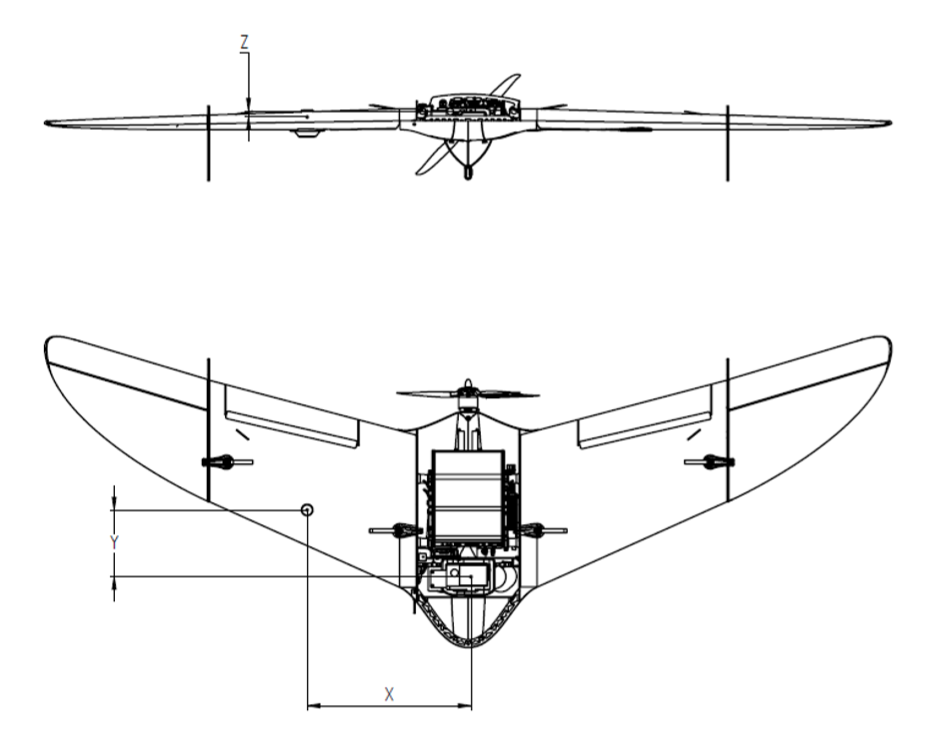
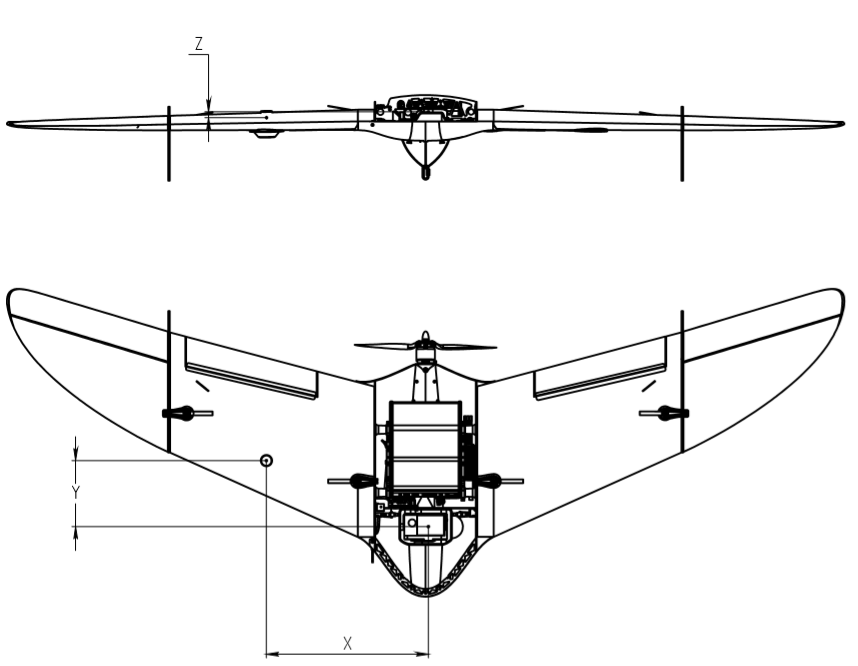
ofsets

Changed region(s): [[0.0, 0.4204, 1.0, 0.991], [0.0, 0.0601, 1.0, 0.2703]]

diff --git a/camera.rst b/camera.rst
@@ -159,11 +159,13 @@
 Офсеты камер
 -------------------
 
-Чтобы компенсировать разницу координат центров фотографирования и положения антенны ГНСС приемника, введите следующие значения офсетов в окне Agisoft Metashape перед началом обработки фотографий:
+Так как геодезический приемник расположен внутри консоли БВС, его центр находится в стороне от камеры.
+
+Параметры смещения следует учитывать при точном построении ортофотопланов и 3D-моделей.
 
 .. figure:: _static/_images/offsets.png
    :align: center
-   :width: 500
+   :width: 800
 
    Офсеты для Геоскан 201
 
@@ -210,3 +212,11 @@
 +----------+-------+-------+-------+
 | Red Edge | 0.494 | 0.177 | 0.006 |
 +----------+-------+-------+-------+
+
+
+Для настройки смещения в Agisoft Metashape во вкладке Инструменты выберите пункт Калибровка камеры. Установите во вкладке Поправка GPS/INS отклонения в метрах (см. рисунок).
+
+.. figure:: _static/_images/offsets_met.png
+   :align: center
+
+   Ввод офсетов в Agisoft Metashape
